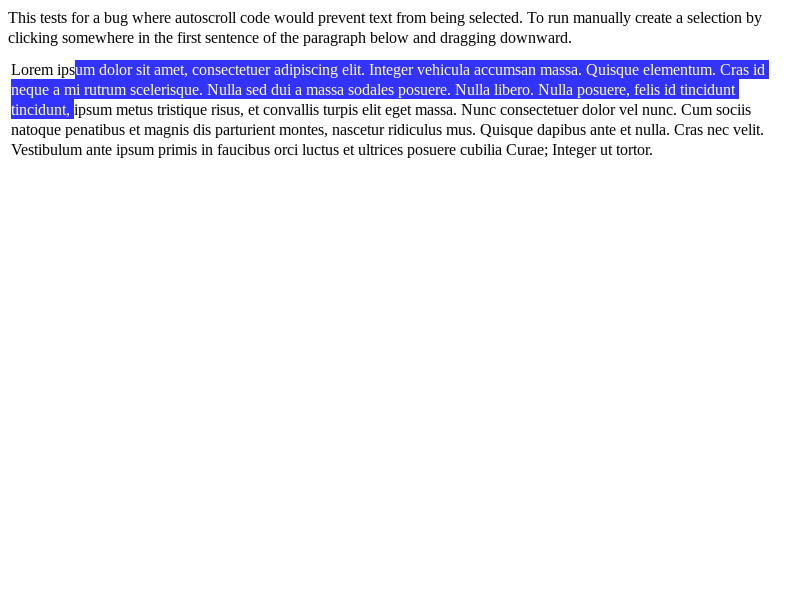
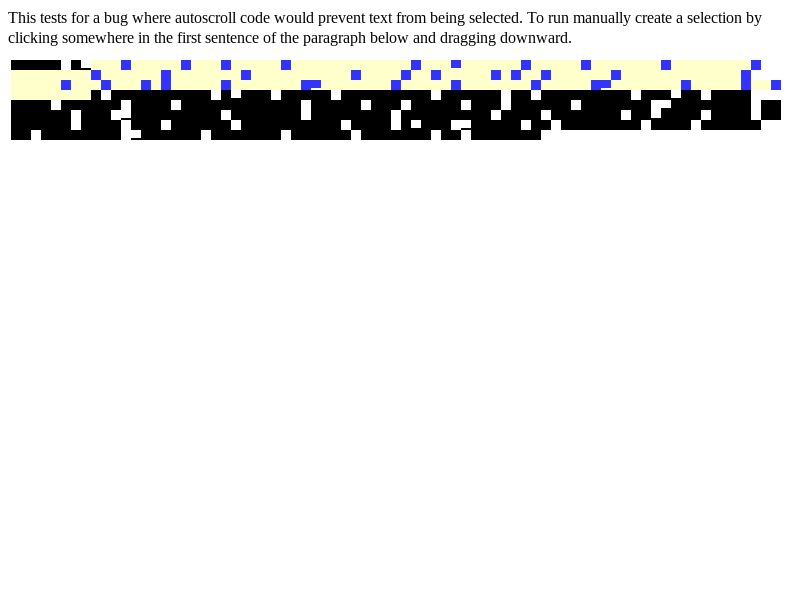
Stablize editing/selection/5232159.html for LayoutNG
The layout test was introduced to verify the ability to select
text on certain elements (*). Incidentally, it hit tests the 1px
gap between two lines on Linux, which results in different behaviors
between legacy and NG due to different line box sizing.

This patch explicitly sets font metrics and line-height to stablize
its behavior.

(*) crrev.com/20a8d9a8d0d93c479ac59a8ad618d114ae77916d

Cq-Include-Trybots: luci.chromium.try:linux_layout_tests_layout_ng
Commit-Queue: Xiaocheng Hu <xiaochengh@chromium.org>
Commit-Queue: Koji Ishii <kojii@chromium.org>
Cr-Commit-Position: refs/heads/master@{#578546}

Changed region(s): [[0.0, 0.09, 1.0, 0.27]]

diff --git a/.upstream-WebKit/LayoutTests/editing/selection/5232159.html b/.upstream-WebKit/LayoutTests/editing/selection/5232159.html
@@ -55,6 +55,8 @@ function stepTwo()
     position: absolute;
     padding-right: 11px;
     padding-left: 11px;
+    font: 10px Ahem;
+    line-height: 10px;
 }
 </style>
 <title>Test for REGRESSION: Cannot select text in RSS view</title>
